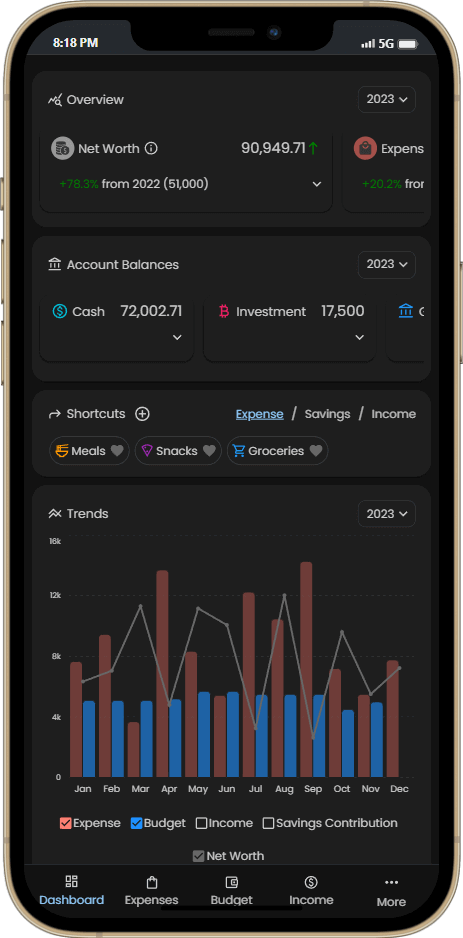
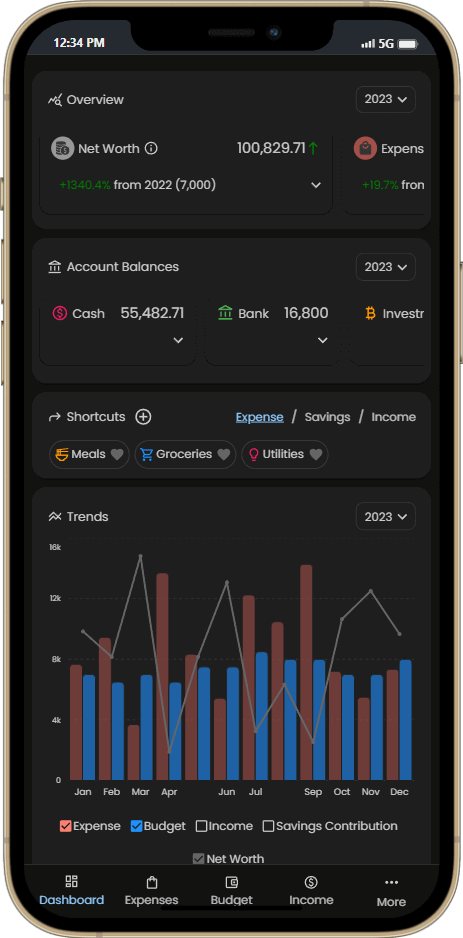
Update index page feature images

diff --git a/src/components/PublicComponents/FeaturesIMG.tsx b/src/components/PublicComponents/FeaturesIMG.tsx
@@ -16,8 +16,8 @@ const features = [
 ];
 const FeaturesIMG = () => {
   const [showFullImage, setShowFullImage] = useState({ open: false, img: "" });
-  const [currentImage, setCurrentImage] = useState(expensesLaptop);
-  const [currentMobileImage, setCurrentMobileImage] = useState(expensesMobile);
+  const [currentImage, setCurrentImage] = useState(dashboardLaptop);
+  const [currentMobileImage, setCurrentMobileImage] = useState(dashboardMobile);
 
   const handleBreadcrumbClick = (laptopImage: string, mobileImage: string) => {
     setCurrentImage(laptopImage);
@@ -61,7 +61,7 @@ const FeaturesIMG = () => {
             <div style={{ position: "relative", display: "flex", justifyContent: "center", alignItems: "center" }}>
               <img
                 className="laptop"
-                loading={currentImage === expensesLaptop ? undefined : "lazy"}
+                loading={currentImage === dashboardLaptop ? undefined : "lazy"}
                 src={currentImage}
                 alt="laptop"
                 onClick={() => handleImageClick(currentImage)}
@@ -69,7 +69,7 @@ const FeaturesIMG = () => {
               />
               <img
                 className="mobile"
-                loading={currentMobileImage === expensesMobile ? undefined : "lazy"}
+                loading={currentMobileImage === dashboardMobile ? undefined : "lazy"}
                 src={currentMobileImage}
                 alt="mobile"
                 onClick={() => handleImageClick(currentMobileImage)}
